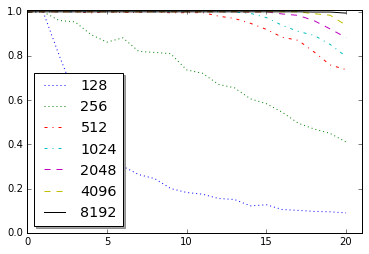
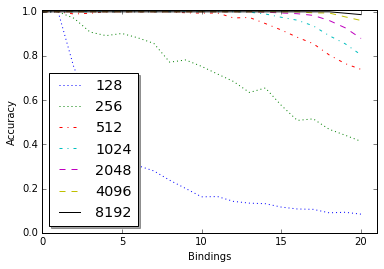
More Corections - semi-final

diff --git a/papers/hrr-paper/paper.tex b/papers/hrr-paper/paper.tex
@@ -400,7 +400,7 @@
 		memory and are, as such, interesting for computational modeling.
 
 		In this paper we extend the HRR approach by introducing implicit,
-		topology-preserving, encoding/decoding procedures using radial
+		topology-preserving encoding/decoding procedures using radial
 		basis functions.
 		This involves randomly chosen permutations for encoding and
 		their corresponding inverse for decoding. These are necessary
@@ -459,7 +459,7 @@ Preliminary theoretical assumptions have been made about the ability to use them
 	\begin{figure}
 		\center
 		\includegraphics[width=0.9\columnwidth]{img/probe_for_pen_w_img.png}
-		\caption{In-memory representation of top-down attention shift for visual scene short-term memory. Result shows attention distribution for a symbol "pen". In probabilistic sense it can be understood as probability of pen being at a certain position.}
+		\caption{In-memory representation of a top-down attention shift for visual scene short-term memory. The result shows attention distribution for a symbol "pen". In probabilistic sense it can be understood as the probability of a pen being at a certain position.}
 	\end{figure}
 	
 	
@@ -478,15 +478,15 @@ In other words, addressing multiple fundamentally different problems with simila
 In order to use VSA operations all types of required inputs need to first be represented as symbols, which are vectors of fixed size. The basic approach is to pick these vectors randomly once for each input used in any operation and maintain these pairs in a separate data structure.	
 	\\
 	
-	\textbf{Association} (also called "binding") is an operation of linking two operands together, resulting in a vector of the same size which is dissimilar (or orthogonal) to the original vectors, but also contains scrambled information from both of them.
+	\textbf{Association} (also called "binding") is the operation of linking two operands together, resulting in a vector of the same size which is dissimilar (or orthogonal) to the original vectors, but also contains scrambled information from both of them.
 For instance, linking the property "red" to object "triangle" can be done using the binding operation as follows:
 	
 	\begin{equation}
 	memory_1 = red \otimes triangle
 	\end{equation}
 	
-	\textbf{Superposition} is the operation of extending a set of items that have already been memorized with another item (or binding of two or more of them).
-As an example, a memory of "red triangle and blue circle" can be formed in following way:
+	\textbf{Superposition} is the operation of extending a set of items, regardless of what is already contained in them.
+As an example, a memory of "red triangle and blue circle" can be formed in the following way:
 	\begin{equation}
 	memory_2 = memory_1 + blue \otimes circle
 	\end{equation}
@@ -499,7 +499,7 @@ I.e. in this scenario the question "What color is the triangle?" could be asked 
 	\end{equation}
 	
 	
-	The probing operation assumes the existence of an inverse element to association, so the previous equation can be interpreted and explained in following way:
+	The probing operation assumes the existence of inverse elements, so the previous equation can be interpreted and explained as such:
 	\begin{multline}
 	memory_2 \otimes triangle'=\\
 	(red \otimes triangle + blue \otimes circle) \otimes triangle'=\\
@@ -508,7 +508,7 @@ I.e. in this scenario the question "What color is the triangle?" could be asked 
 	\approx red
 	\end{multline}
 	
-	where $triangle'$ represents inverse of $triangle$.
+	Here $triangle'$ represents the inverse of $triangle$.
 The resulting vector will be a composition of something that is very similar to $red$ and something that doesn't resemble anything meaningful from the symbol table, so it can be treated as negligible noise.	A usual way of computing similarity is the cosine distance, which for two vectors \pmb x and \pmb y is calculated as follows:
 	
 	\begin{equation}
@@ -517,41 +517,38 @@ cos(\pmb x, \pmb y) = \frac {\pmb x \cdot \pmb y}{||\pmb x|| \cdot ||\pmb y||}
 	
 	Obtained values of similarity clearly distinguish the matching vectors. Concrete values that highlight this will be later presented in section \ref{sec:experiments}.	
 	
-	The process of converting a noisy result of probing into the closest known symbol is called the \textbf{clean-up procedure}.
+	The process of converting the noisy result of probing into the closest known symbol is called the \textbf{clean-up procedure}.
 A straightforward way of implementing clean-up memory is using a lookup table, while other researchers show that any type of attractor network can be used (e.g. self-organizing maps).
 
-	In the case of look-up tables, in order to decode a specific symbolic vector, the elements from a symbol table are iterated over, the similarity to each of the entries is calculated and the symbol which presented maximum similarity is returned. With the help of a threshold for the similarity value false-positives can be excluded. A look-up requires O(M), where M is the number of symbols known to the system. This approach works quite well for object identifiers (names), but has some non-desirable properties when used on scalar encoding.
-	//TODO Lookup Example
-	
-	This will consequently increase space complexity and may become infeasible, depending on the type of input used. While looking for existing elements may not require the entire table to be checked probing for non-existent ones will always traverse all entries only to show up empty at the end.When handling scalars symbolic encoding can be done by discretization of the whole input range into bins and assigning a random vector to each discrete value. This however may often prove to not satisfy the task needs any more.
+	In the case of look-up tables, in order to decode a specific symbolic vector, the elements from a symbol table are iterated over, the similarity to each of the entries is calculated and the symbol which presented maximum similarity is returned. With the help of a threshold for the similarity value false-positives can be excluded. A look-up requires O(n), where $n$ is the number of symbols known to the system. This approach works quite well for object identifiers (names), but has some non-desirable properties when used on scalar encoding. The space complexity will increase and may become infeasible, depending on the number of inputs needed. One way of handling symbolic scalar encoding is to discretize the whole input range into bins and assigning a random vector to each discrete value. This however may often prove to not satisfy the task needs any more.
 	
 	\subsection{Holographic reduced representations}
 	\label{sec:hrr}
 	
-	Holographic Reduced Representations are VSAs which implement the operation of binding as circular convolution. An option to calculating this is with the help of discrete Fast Fourier Transformations, in short FFTs. Taking $f(x)$ to describe an FFT, with $f^{-1}(x)$ as its inverse, circular convolution can be calculated as follows:
+	Holographic Reduced Representations are VSAs which implement the operation of binding as circular convolution. One option for calculating it is with the help of discrete Fast Fourier Transformations, in short FFTs. Taking $f(x)$ to describe an FFT, with $f^{-1}(x)$ as its inverse, circular convolution can be calculated as follows:
 	
 	\begin{equation}
 	\pmb a = f^{-1}(f(\pmb x) * f(\pmb y))
 	\end{equation}
 	
-	where \pmb a is the result of convolution, and \pmb x and \pmb y are symbolic vectors of size $N$.
-Superposition is implemented as a simple element-wise vector addition. Taking the result of the previously displayed convolution and superposing it with some vector \pmb b is done as follows:
+	where $\pmb a$ is the result of convolution, and $\pmb x$ and $\pmb y$ are symbolic vectors of size $n$.
+Superposition is implemented as a simple element-wise vector addition. Taking the result of the previously displayed convolution and superposing it with some vector $\pmb b$ is done as follows:
 
 	\begin{equation}
 	\pmb m = \pmb a + \pmb b
 	\end{equation}
 
-The resulting vector of the superposition operation \pmb m can then be probed by using the inverse of circular convolution, which is circular correlation. Plainly put probing can be viewed as binding with the "inverse" of a vector in Fourier space:
+The resulting vector of the superposition operation $\pmb m$ can then be probed by using the inverse of circular convolution, which is circular correlation. Plainly put probing can be viewed as binding with the "inverse" of a vector in Fourier space:
 	
 	\begin{equation}
-	\pmb y' = f^{-1}(f(\pmb m) * f(\pmb x)^{-1})
+	\pmb y^* = f^{-1}(f(\pmb m) * f(\pmb x)^{-1})
 	\end{equation} 
 
-Following the previous formulas as a series of operations the vector \pmb y' will be similar to vector \pmb y, but not entirely the same due to the noisy influence of vector \pmb b. The inverse referred to here is gained by calculating the complex conjugate of the vector's entries. Complex conjugates are simply the same values with negated imaginary parts.
+Following the previous formulas as a series of operations the vector $\pmb y^*$ will be similar to vector $\pmb y$, but not entirely the same due to the noisy influence of vector $\pmb b$. The inverse in Fourier space referred to here is gained by calculating the complex conjugate of the vector's entries. Complex conjugates are simply the same values with negated imaginary parts.
 		
 	Performing FFTs has no invariant regarding the mean of the resulting vector entries and can produce all sorts of results.
 Due to this, when probing, we would receive vectors which had the correct relative distance between their values, i.e.
-the correct "shape", but would be shifted, stretched or squeezed on the Y-axis.This lead to vectors falsely being regarded as dissimilar to each other, and can be solved by performing two normalization steps:
+the correct "shape", but would be shifted, stretched or squeezed along the Y-axis. This lead to vectors falsely being regarded as dissimilar to each other, and can be solved by performing two normalization steps before comparing:
 
 	\begin{equation}
 	x_i = x_i - \frac{\sum_{i=0}^n ||x_i||}{|x|}
@@ -580,7 +577,7 @@ Figure \ref{no-perm-a} shows how such an encoded vector looks like, and what the
 With this result it becomes obvious that unfortunately lots of information is lost.
 If this result is probed with the same random vector used in binding something similar to the initial Gaussian distribution is expected.
 And yet figure \ref{no-perm-b} presents no such outcome.
-While there is a peak at the initial value which is probed for lots of other peaks also arise, making it impossible to detect which one is correct.
+While there is a peak at the initial value lots of other peaks also arise, making it impossible to detect which one is correct.
 
 	
 	\begin{figure}[th!]
@@ -600,16 +597,15 @@ In figure \ref{no-perm-b} "ball" is being probed, and the expected result is a G
 		\label{no-perm}
 	\end{figure}
 	
-	This effect is due to the fact that circular convolution is based on Fourier transformations and the lack of frequencies present in encoded vectors becomes apparent in Fourier space as well.
-Figure \ref{fft} highlights this.
-All the information of a Gaussian distribution is crammed into the lowest and highest values of the Fourier transformation, resulting in a high loss.
+	This effect is due to the fact that circular convolution is based on Fourier transformations. A lack of frequencies in the Fourier space of the encoded scalar becomes apparent, as highlighted in figure \ref{fft}.
+All the information of a Gaussian distribution is crammed into the lowest and highest values of the Fourier transformation, resulting in a high loss of information.
 In these circumstances, when probing for a scalar, the vector received is in turn recreated of too few frequencies and will not come close to resembling the original Gaussian distribution.
 
 
 \begin{figure}[th!]
 	\includegraphics[width=\columnwidth]{img/scalar-pre-perm-fft.png}
 	\includegraphics[width=\columnwidth]{img/scalar-random-fft.png}
-	\caption{Fourier analysis of 1D symbols: Gaussian distribution (top row) and same dimensional vector randomly sampled from normal distribution (bottom row). It is obvious that latter is uniformly spread across the whole vector, while the former is concentrated around 2 boundary values leading to increased interference between multiple items stored one over another (when added in Fourier space).}
+	\caption{Fourier analysis of 1D symbols: a Gaussian distribution (top row) and a randomly sampled vector of the same size (bottom row). It is obvious that the latter's information in Fourier space is uniformly spread across the whole length, while the former's is concentrated around 2 boundary points.}
 	\label{fft}
 \end{figure}
 	
@@ -627,7 +623,7 @@ As such the resulting vector will present lots of jumps in value, which have a s
 	Working with such a vector makes it possible to successfully probe for scalars and receive a Gaussian distribution overlapped with some noise.
 All of this can be seen in figure \ref{perm}, which depicts the exact same operations as figure \ref{no-perm}, but using a permuted version of a Gaussian distribution.
 The result in figure \ref{perm-b} clearly shows a spike at the expected spot in the sample range.
-This vector can be smoothed out, after which the peak can easily be identified and the initial scalar can be recovered.
+This vector can now be smoothed out, after which the peak can easily be identified and the initial scalar can be recovered.
 	
 	\begin{figure}
 		\begin{subfigure}{1\columnwidth}
@@ -640,12 +636,12 @@ This vector can be smoothed out, after which the peak can easily be identified a
 			\caption{Probing}
 			\label{perm-b}
 		\end{subfigure}
-		\caption{Figure \ref{perm-a} shows the binding of the permuted Gaussian distribution for value 8 on a scale to 10 with the symbolic representation of "ball", which is random.
-In figure \ref{perm-b} "ball" is being probed, and the expected result is a Gaussian distribution for 8, mixed with some noise.}
+		\caption{Figure \ref{perm-a} shows the binding of the permuted Gaussian distribution for the value 8 on a scale to 10 with the symbolic representation of "ball", which is random.
+In figure \ref{perm-b} "ball" is being probed, and the expected result is a Gaussian distribution for the value8, mixed with some noise.}
 		\label{perm}
 	\end{figure}
 	
-	Algorithms 1 and 2 show, respectively, pseudo code for pipeline before and after the suggested modification are introduced.
+	Algorithms 1 and 2 show the operations pipeline before and after the suggested modification are introduced in pseudo code.
 	
 	\begin{algorithm}
 		\caption{Original pipeline}
@@ -680,15 +676,16 @@ In figure \ref{perm-b} "ball" is being probed, and the expected result is a Gaus
 		\begin{algorithm}
 			\caption{Modified pipeline}
 			\begin{algorithmic}[1]
-				\State $P \gets chooseRandomPermutation(N)$
+				\State $P \gets chooseRandomPermutation(n)$
 				\State $m \gets initEmptyMemory()$
 				\ForAll{$(symbol_1, symbol_2)$}
-				\State $enc_1 \gets FFT(permute(enc(symbol_1, N), P))$
-				\State $enc_2 \gets FFT(permute(enc(symbol_2, N), P))$
-				\State $m \gets m + enc_1 \otimes enc_2$
+				\State $enc_1 \gets FFT(permute(enc(symbol_1, n), P))$
+				\State $enc_2 \gets FFT(permute(enc(symbol_2, n), P))$
+				\State $m \gets m + IFFT(enc_1 \otimes enc_2)$
 				\EndFor	
 				\Function{ProbeMemory}{memory, op}
-				\State $r \gets permute(IFFT(memory \oslash op), P^{-1})$
+				\State $r \gets IFFT(FFT(memory) \oslash FFT(op))$
+				\State $r \gets permute(r, P^{-1})$
 				\State $cleanResult \gets argmax(r)$
 				
 				\Return $cleanResult$
@@ -696,7 +693,7 @@ In figure \ref{perm-b} "ball" is being probed, and the expected result is a Gaus
 			\end{algorithmic}
 		\end{algorithm}
 		
-		In contrast, Algorithm 2 shows pipeline with proposed changes. First line chooses a fixed random permutation of $N$ elements used throughout the whole process. It can bee seen that there is no initial loop to assign symbolic representations to all symbols. They are, instead, constructed according to need using function $enc(value, N)$, which returns discrete sampled normal distribution vector of N elements, centered around $value$. This perfectly sampled normal distribution is permuted using permutation $P$ in lines 4 and 5, so its frequency representation contains uniform spread over the whole spectrum, as explained earlier in this chapter. Probing operation consists of applying inverse permutation $P^{-1}$ after IFFT (line 9). Since this gives a noisy version of initial normal distribution (shown in figure \ref{perm-b}), the only thing that needs to be done is to identify the mean of the distribution. Complexity of this operation is linear w.r.t. length of the vector $N$, while in case of Algorithm 1 it is linear w.r.t. to number of symbols stored in the lookup table.
+		In contrast, Algorithm 2 shows pipeline with proposed changes. First line chooses a fixed random permutation of $n$ elements used throughout the whole process. It can bee seen that there is no initial loop to assign symbolic representations to all symbols. They are, instead, constructed according to need using function $enc(value, n)$, which returns discrete sampled normal distribution vector of $n$ elements, centered around $value$. This perfectly sampled normal distribution is permuted using permutation $P$ in lines 4 and 5, so its frequency representation contains uniform spread over the whole spectrum, as explained earlier in this chapter. Probing operation consists of applying inverse permutation $P^{-1}$ after IFFT (line 9). Since this gives a noisy version of initial normal distribution (shown in figure \ref{perm-b}), the only thing that needs to be done is to identify the mean of the distribution. Complexity of this operation is linear w.r.t. length of the vector $N$, while in case of Algorithm 1 it is linear w.r.t. to number of symbols stored in the lookup table.
 		
 
 	\subsection{Encoding coordinate symbols}
@@ -719,7 +716,7 @@ In figure \ref{perm-b} "ball" is being probed, and the expected result is a Gaus
 			\begin{subfigure}{0.45\columnwidth}
 				\center
 				\includegraphics[width=1\columnwidth]{img/capacity.png}
-				\caption{Binding of pairs of random vectors (original pipeline).}
+				\caption{Binding pairs of random vectors (original pipeline).}
 				\label{fig:capacity}
 			\end{subfigure}
 			\begin{subfigure}{0.45\columnwidth}
@@ -755,7 +752,7 @@ In figure \ref{perm-b} "ball" is being probed, and the expected result is a Gaus
 	\label{sec:experiments}
 	\subsection{Visual short term memory and top-down attention model}
 	
-	In this experiment a system is given a monocular stream as an input. An arbitrary algorithm is used to perform object detection and recognition, resulting in number of 2D coordinates associated with respective object names (figure \ref{fig:object-detection}). Object names are strings and are encoded as random vectors of length N, sampled from normal distribution (figure \ref{fig:encoding-object}). Locations of object in image plane are 2D coordinates $(x,y)$ and they are perceptually grounded symbols (figure \ref{fig:encoding-coord}).
+	In this experiment a system is given a monocular stream as an input. An arbitrary algorithm is used to perform object detection and recognition, resulting in a number of 2D coordinates associated with respective object names (figure \ref{fig:object-detection}). Object names are strings and are encoded as random vectors of length $n$, which are sampled from a normal distribution (figure \ref{fig:encoding-object}). The locations of objects in the image plane are 2D coordinates $(x,y)$ and they are perceptually grounded symbols (figure \ref{fig:encoding-coord}).
 	
 	
 	\begin{figure}[th!]
@@ -763,20 +760,20 @@ In figure \ref{perm-b} "ball" is being probed, and the expected result is a Gaus
 		\begin{subfigure}{1.0\columnwidth}
 			\center
 			\includegraphics[width=0.6\columnwidth]{img/map_original.jpg}
-			\caption{Original scene and set of detected objects}
+			\caption{Original scene and a set of detected objects}
 			\label{fig:object-detection}
 		\end{subfigure}
 		
 		\begin{subfigure}{0.45\columnwidth}
 			\center
 			\includegraphics[width=\linewidth]{img/coord_example_1.png}
-			\caption{Encoding of (x,y) location for "watch"}
+			\caption{Encoding of location (x,y) for "watch"}
 			\label{fig:encoding-coord}
 		\end{subfigure}
 		\begin{subfigure}{0.45\columnwidth}
 			\center
 			\includegraphics[width=\linewidth]{img/coord_example_2.png}
-			\caption{Encoding of "watch" object ID as randomly sampled vector}
+			\caption{Encoding of the "watch" object ID as a randomly sampled vector}
 			\label{fig:encoding-object}
 		\end{subfigure}
 				\begin{subfigure}{0.8\columnwidth}
@@ -795,7 +792,7 @@ In figure \ref{perm-b} "ball" is being probed, and the expected result is a Gaus
 			\begin{subfigure}{0.45\columnwidth}
 				\center
 				\includegraphics[width=\linewidth]{img/probe_for_pen.png}
-				\caption{Probing for "pen" return mixture of Gaussian distributions}
+				\caption{Probing for "pen" returns location probability with two areas.}
 				\label{fig:probing-double}
 			\end{subfigure}
 						
@@ -804,9 +801,9 @@ In figure \ref{perm-b} "ball" is being probed, and the expected result is a Gaus
 		
 	\end{figure}
 	
-	Due to the noisy nature of probing given by the slight loss of information in the binding process each symbol may have some amount of similarity to whatever other symbol it is compared to. However, even though this is the case, the similarity measure of bound symbols is consistently higher and can be clearly distinguished from others. Chart \ref{pgf:bar1} represents the result of probing at (19, -26.75), which is somewhere in between the keys and the red pen, as seen in figure \ref{fig:object-detection}.
+	Due to the noisy nature of probing given by the slight loss of information in the binding process each symbol may have some amount of similarity to whatever other symbol it is compared to. However, even though this is the case, the similarity measure of bound symbols is consistently higher and can be clearly distinguished from others. Chart \ref{pgf:bar1} represents the result of probing at $(19, -26.75)$, which is somewhere in between the keys and the red pen, as seen in figure \ref{fig:object-detection}.
 	
-	 As we can see all symbols that are nowhere near the position present similarities well below 5 \%, while both close matches scored over 20 \%. Spot on probes may even attain values of over 50 \%. The example in chart \ref{pgf:bar2} is for a probe at(-13, 21.5), which is further away from the center of an object region. But even though the dark pen and the wallet are further apart the result of probing still yields distinctly higher similarities for them as opposed to objects further away. 
+	 As we can see all symbols that are nowhere near the position present similarities well below $0.05$ (values may also be negative), while both close matches scored over $0.2$. Spot on probes may even attain values of over $0.5$. The example in chart \ref{pgf:bar2} is for a probe at $(-13, 21.5)$, which is further away from the center of an object region. But even though the dark pen and the wallet are further apart the result of probing still yields distinctly higher similarities for them as opposed to objects further away. 
 	
 	\begin{figure}[th!]
 	\center
@@ -819,11 +816,11 @@ In figure \ref{perm-b} "ball" is being probed, and the expected result is a Gaus
           ]
             \addplot[ybar,fill=blue] coordinates {
                 (keys,   0.22827929349034107)
-                (mouse, 0.023035819302988644)
+                (mouse, -0.023035819302988644)
                 (mug, 0.025309361445942102)
                 (pen, 0.2098596398998358)
                 (wallet, 0.034187368731921304)
-                (watch, 0.018549398363469777)
+                (watch, -0.018549398363469777)
             };
         \end{axis}
     \end{tikzpicture}
@@ -838,7 +835,7 @@ In figure \ref{perm-b} "ball" is being probed, and the expected result is a Gaus
             ylabel = Similarity
           ]
             \addplot[ybar,fill=blue] coordinates {
-                (keys,   0.020032173214673016)
+                (keys,   -0.020032173214673016)
                 (mouse, 0.027742071303527464)
                 (mug, 0.03443254630997427)
                 (pen, 0.089801145874187763)
@@ -860,7 +857,7 @@ In figure \ref{perm-b} "ball" is being probed, and the expected result is a Gaus
 	
 \subsection{Symbolic scripting (holographic controllers)}
 
-We have used our system to demonstrate a mechanism for encoding neural programs and processes through series of associated action, perception and actuator symbols. We call this mechanism for defining controllers using holographic memories "symbolic scripting".
+We have used our system to demonstrate a mechanism for encoding neural programs and processes through a series of associated action, perception and actuator symbols. We call this mechanism for defining controllers using holographic memories "symbolic scripting".
 
 
 \begin{figure}[th!]
@@ -897,14 +894,14 @@ The basic idea is centered around symbolic representations of all three parts in
 	\item \textbf{senses} are preprocessed (classified) sensory stream labels, such as "bright", "dark", "touching", "falling\_down", "rolling", etc.
 \end{enumerate}
 
-An example of this kind of symbolic script is given on figure \ref{fig:symbolic-scripting}. Memory encodes light following behavior.
+An example of this kind of symbolic script is given in figure \ref{fig:symbolic-scripting}. Here the memory encodes a light following behaviour.
 
 	\section{Conclusions}
 	We have introduced a mechanism for intrinsic symbol encoding/decoding for Holographic Reduced Representations.
 As a consequence, our approach eliminates the need for clean-up memories as they are described in literature.
-Instead, result of probing operation directly gives interpretable symbol, which can be decoded in constant computational time.
-In other words, time needed for encoding/decoding is completely ignorant of total number of symbols memorized, allowing memories that can store large corpus of different symbols.
-	A concrete biophysical evidence and theoretical model of implementation of convolution in brain is, unfortunately, still missing.
+Instead, results of probing operations directly give interpretable symbols, which can be decoded in constant computational time.
+In other words, time needed for encoding/decoding is completely ignorant of the total number of symbols memorized, allowing memories that can store a large corpus of different symbols.
+	A concrete biophysical evidence and theoretical model of implementation of convolution in the brain is, unfortunately, still missing.
 	
 	%% Add entry to the table of contents for the bibliography
 	\printbibliography[heading=bibintoc]

diff --git a/vsa/legend.py b/vsa/legend.py
@@ -7,5 +7,7 @@ def getLegend(v,start):
     for i in range(sh):
         plt.plot(v[i], linestyles[3-i*4/sh], label=start*pow(2,i))
     plt.axis([0,len(v[0]),0,1.01])
+    plt.xlabel('Bindings')
+    plt.ylabel('Accuracy')
     legend = plt.legend(loc='lower left', shadow=True, fontsize='x-large')
     plt.show()
